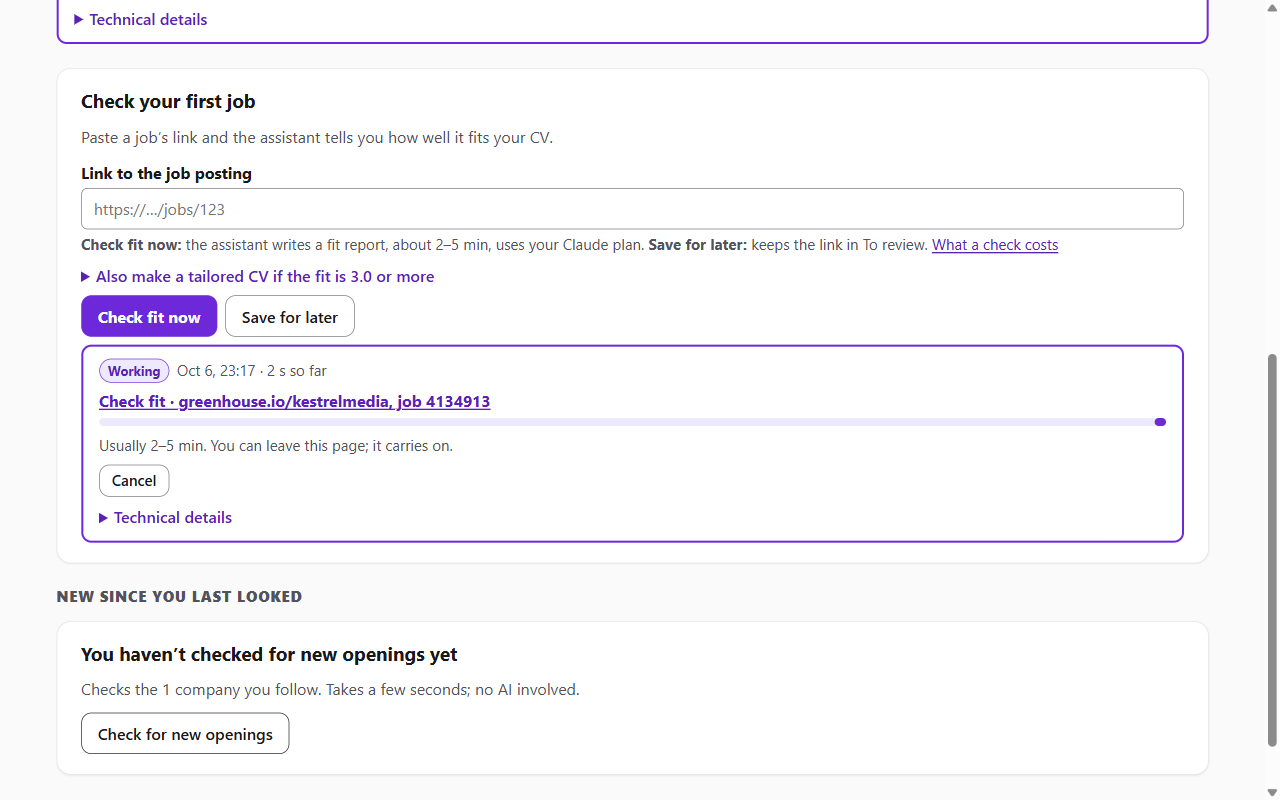
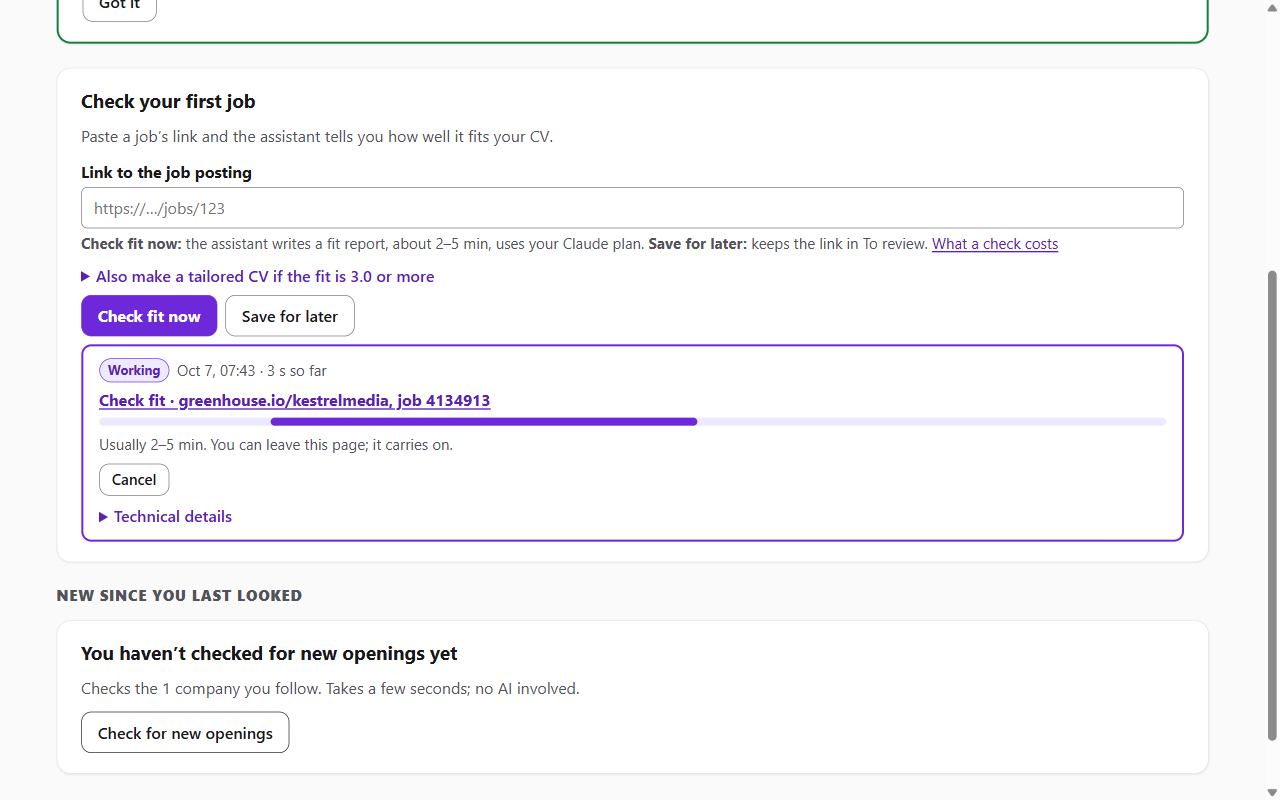
test(ux): the first-job acceptance run passes again on the final build
Re-run after the gate, heuristic, walkthrough and accessibility fixes: P2
went from an empty workspace to a first evaluated job in 12 steps without
leaving the app (SEQ 7/7), verified by check-task.mjs against the sandbox's
data. The first run, on an earlier build, is in git history.

diff --git a/app/ux/m8/runs/P2-first-job/transcript.md b/app/ux/m8/runs/P2-first-job/transcript.md
@@ -1,45 +1,40 @@
 # P2-first-job: transcript
 
+Re-run on the final M8 build (after the gate, heuristic, walkthrough and accessibility fixes). The first run on an earlier build is in git history.
+
 - **Persona:** Alex Rivera
 - **Goal:** "Get it ready for your job search: it needs your CV, and it should keep an eye on Kestrel Media (https://job-boards.greenhouse.io/kestrelmedia). Then use the app to find out whether https://job-boards.greenhouse.io/kestrelmedia/jobs/4134913 is a good fit. Tell me what the app concluded."
-- **Steps used:** 9 of 60
+- **Steps used:** 12 of 60
 - **Outcome (my judgment):** succeeded
-- **Single Ease Question:** 7/7: The first screen walked me through each step, and every action confirmed itself.
+- **Single Ease Question:** 7/7: The first screen was a two-step checklist, and the job check sat right below it.
 
 ## Steps
 | # | Thinking aloud | Action | What happened | Screenshot |
 |---|---|---|---|---|
-| 1 | Opening the app for the first time. | Navigate to URL | "Welcome. Let's get you set up." with 2 steps left | step-01.png |
-| 2 | Step 1 asks for my CV, so I'll paste it. | Filled "Your CV" textbox | Text accepted | |
-| 3 | Save it. | Clicked "Save my CV" | Step marked done: "Saved: Alex Rivera · Summary, Experience (2 roles), Education, Skills." That told me it was read correctly. | |
-| 4 | Step 2: follow Kestrel Media. | Filled company name and careers link | Fields filled | |
-| 5 | Submit. | Clicked "Follow company" | "You're set up" card with three ticks, including "Following Kestrel Media" | |
-| 6 | The job link goes in "Check your first job". | Typed the posting URL | Field filled | |
-| 7 | I want the fit now. | Clicked "Check fit now" | No visible progress on the page; the Activity button was the only hint. | step-02.png |
-| 8 | Waiting. | Waited 30s | Activity showed "1 done". A "Waiting for you" card listed "Kestrel Media — Senior Backend Engineer (fit 4.1)". | |
-| 9 | Open the result. | Clicked the job link | Detail page: Fit 4.1 / 5, Recommendation: Apply, plus a fit report | step-03.png |
+| 1 | Open the app and see what it wants. | Navigate to the URL | Welcome page with "Get set up": Add your CV, Follow a company, AI assistant ready (already done) | step-01.png |
+| 2 | Paste my CV into the box. | Typed the CV into "Your CV" | Text accepted | |
+| 3 | Save it. | Clicked "Save my CV" | Step ticked: "Saved: Alex Rivera · Summary, Experience (2 roles), Education, Skills." A "Check your first job" box appeared. | |
+| 4 | Follow Kestrel Media. | Typed the company name and the careers link | Fields filled | |
+| 5 | Submit. | Clicked "Follow company" | "You're set up" card: following Kestrel Media | |
+| 6 | Paste the job link. | Typed the job URL | Filled | |
+| 7 | Run the check. | Clicked "Check fit now" | A progress card appeared | step-02.png |
+| 8 | It says 2–5 min, so wait. | Waited 30 s | Done (it took 8 s): "Fit 4.1 / 5. The fit report is ready." The job was added to Applications. | |
+| 9 | I want the reasons. | Clicked "Open the job" | Job page: Fit 4.1 / 5, Recommendation: Apply, with a full fit report | step-03.png |
 
-What I'd tell a friend: the app says this Kestrel Media Senior Backend Engineer job is a strong fit, 4.1 out of 5, and recommends applying. The posting looks real, risk is low and confidence is high. My Go settlement pipeline, the reliability work and my PostgreSQL experience match well. The one gap is gRPC, rated medium. The report says to lead with the settlement pipeline and the 60% incident reduction. It doesn't know the salary, since the posting doesn't state one. I haven't applied, and the app says it never applies for me.
+What I'd tell a friend: The app set up my CV and is following Kestrel Media. It says the Kestrel Media Senior Backend Engineer job is a strong fit, 4.1 out of 5, and recommends Apply. It rates the posting as very likely real, risk low and confidence high. My settlement pipeline rebuild and my scheduler/incident work match the role. PostgreSQL also matches. The one gap is gRPC, rated medium. The salary isn't stated in the posting. It is a small remote team with on-call duty. I haven't applied. The app doesn't apply for me, and the next step is to make a tailored CV.
 
 ## Wrong turns
 None.
 
 ## Moments of confusion
-- After "Check fit now" nothing visibly changed on the page. I didn't know whether it had started.
-- The check finished within about 30 seconds, not the 2–5 minutes it promised.
-- The detail page shows "Your note: Fixture evaluation", which I never wrote.
-- "Is the posting real? High Confidence" is a little odd as a label.
-- The Today page says "Nothing needs you right now" while a reviewed job is waiting.
+- The check finished in 8 s although the page said 2–5 min. I wondered briefly whether it was real. The report content and the "Your note: Fixture evaluation" line made it look like sample data.
+- "Is the posting real?" followed by "High Confidence" was slightly odd.
 
 ## Problems I would report
-### P2-first-job-01: No visible progress after "Check fit now"
-- **Severity (my guess):** 2
-- **Where:** Today page, "Check your first job" form after I clicked "Check fit now"
-- **What I expected vs what happened:** I expected a "working on it" message near the button. The form just disappeared, and only the Activity button changed.
-- **Evidence:** app/ux/m8/runs/P2-first-job/step-02.png
-
-### P2-first-job-02: A note I never wrote ("Fixture evaluation")
+### P2-first-job-01: Time estimate does not match what happened, and the note reads "Fixture evaluation"
 - **Severity (my guess):** 1
-- **Where:** Top of the job detail page, "Your note: Fixture evaluation"
-- **What I expected vs what happened:** I expected no note, or one I wrote. A note appeared that I didn't write, which makes me doubt the result is real.
+- **Where:** The job page, where it says "Your note: Fixture evaluation", and the "about 2–5 min" text
+- **What I expected vs what happened:** I expected a real multi-minute check. It finished in 8 s and carried a test-looking note, which made me doubt whether the result was real.
 - **Evidence:** app/ux/m8/runs/P2-first-job/step-03.png
+
+Screenshots step-01.png, step-02.png and step-03.png are saved in app/ux/m8/runs/P2-first-job/.

diff --git a/app/ux/m8/runs/P2-first-job/verdict.md b/app/ux/m8/runs/P2-first-job/verdict.md
@@ -1,6 +1,6 @@
 # Verdict: P2-first-job
 
-Checked by `app/ux/check-task.mjs --task first-job` against http://127.0.0.1:4460/ (state empty) on 2026-10-07T05:18:57.408Z.
+Checked by `app/ux/check-task.mjs --task first-job` against http://127.0.0.1:4490/ (state empty) on 2026-10-07T13:44:44.812Z.
 
 **Verified outcome:** success
 
@@ -8,6 +8,6 @@ Checked by `app/ux/check-task.mjs --task first-job` against http://127.0.0.1:446
 |---|---|---|---|
 | cv.md exists | data | pass | cvPresent=true |
 | portals.yml follows an enabled company | data | pass | exists=true |
-| an evaluation succeeded | data | pass | 1148c350-65c1-4c02-9e44-7680e32db749 |
+| an evaluation succeeded | data | pass | a9176c23-273a-4dbd-97b6-e6913a9899ed |
 | the tracker has a row with a report | data | pass | 1 Kestrel Media |
 

diff --git a/app/ux/m8/runs/P2-first-job/brief.md b/app/ux/m8/runs/P2-first-job/brief.md
@@ -1,5 +1,5 @@
 Run id: P2-first-job
-URL: http://127.0.0.1:4460/
+URL: http://127.0.0.1:4490/
 Step budget: 60 browser actions
 
 Your persona card:
